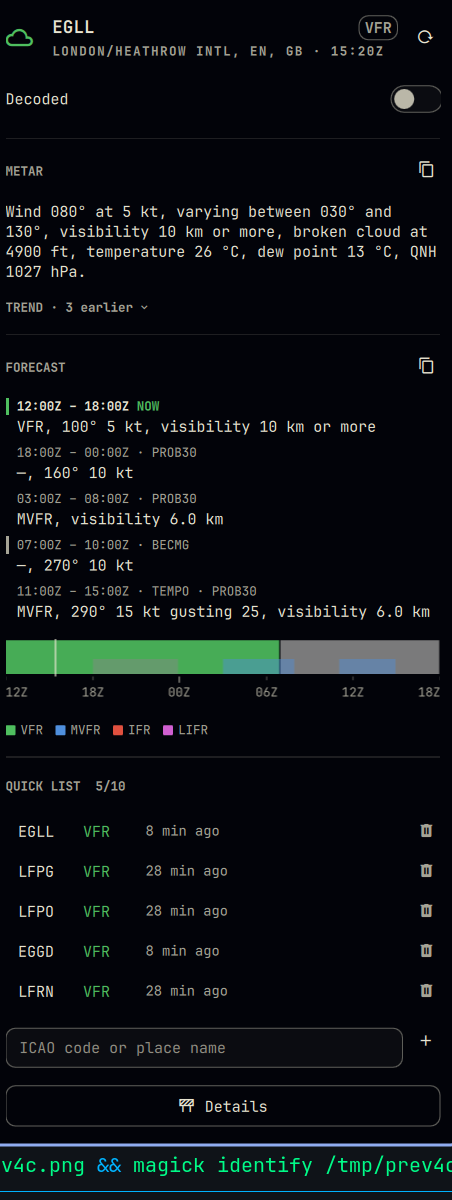
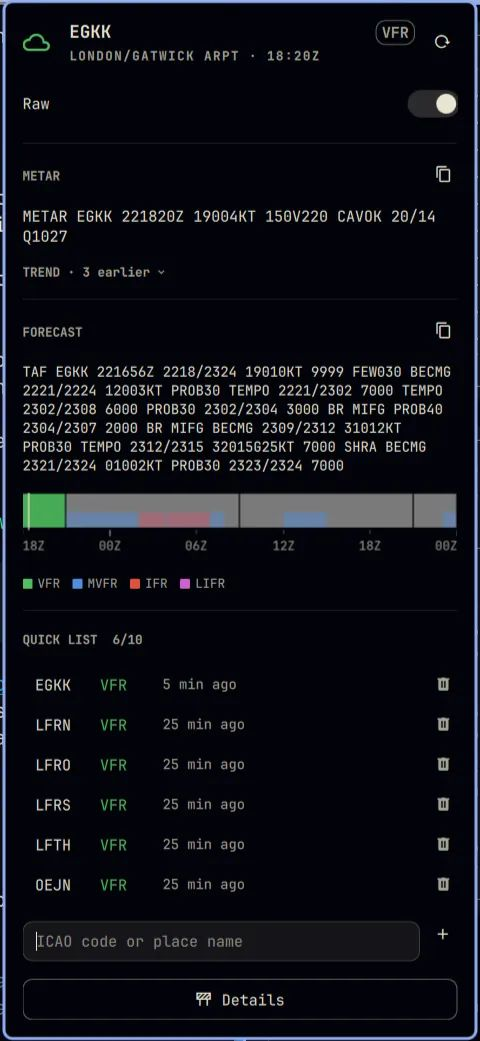
Replace the preview screenshot with a tighter crop
The new capture shows the popup on EGKK: the folded TREND line, the TAF
timeline with its colour legend, and a full quick list. The README alt text now
describes what the image actually contains.

Changed region(s): [[0.0, 0.0, 1.0, 1.0]]

diff --git a/README.md b/README.md
@@ -10,9 +10,9 @@ glance, decoded or raw, with optional NOTAMs.
 
 ## What it shows
 
-![SkyBrief's popup on EGLL: decoded METAR, the forecast with its group in force
-marked NOW and its category timeline, and the quick list of
-stations](preview.png)
+![SkyBrief's popup on EGKK: the VFR pill, the raw METAR, the folded TREND line,
+the TAF with its category timeline and colour legend, the quick list with each
+station's category and age, and the search field](preview.png)
 
 A one-letter pill in the bar, one letter per flight category:
 
